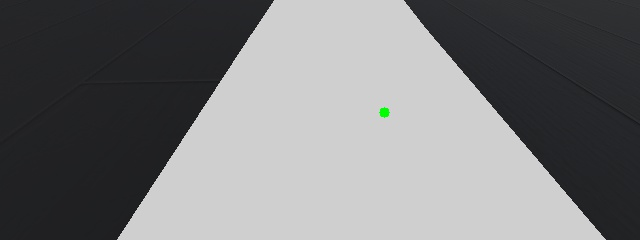
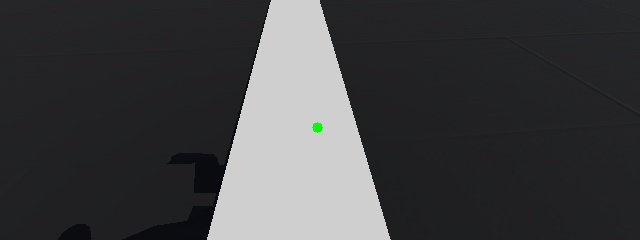
Random positions and rotation
Starts at random cell, has random cell to get the package and random end cell.
It now rotates to orient itself to the next point

diff --git a/controllers/e_puck_simple/e_puck_simple.py b/controllers/e_puck_simple/e_puck_simple.py
@@ -1,23 +1,34 @@
 import cv2
 import numpy as np
+import math
 from controller import Camera
 from controller import Supervisor
 
 from CellsGraph import CellsGraph
 from PathFindingAStar import PathFindingAStar
 
+#Declaring variables for global purposes
+
+robot = None
+
+cellsGraph = None
+pathFinding = None
+totalPath = []
+
+currentCell = None
 
 
-def run_robot(robot):
-
-    # Camera Image Variables
-    image_width = 640
-    image_height = 240
 
 
+
+max_speed = 6.28  # documentation vel
+currentSpeed = 0.25 * max_speed
+
+def run_robot():
+    # Robot State
+    robotCurrentState = 'ROTATING'
     timestep = int(robot.getBasicTimeStep())
-    base_speed = 0.25
-    max_speed = 6.28 # documentation vel
+
 
     # Initialize motors
     left_motor = robot.getDevice("left wheel motor")
@@ -37,89 +48,221 @@ def run_robot(robot):
     gps = robot.getDevice('gps')
     gps.enable(timestep)
 
+    #Initialize Gyroscope
+    #gyro = robot.getDevice('gyro')
+    #gyro.enable(timestep)
+
+    # Initialize IU
+    inertialUnit = robot.getDevice('inertial unit')
+    inertialUnit.enable(timestep)
+
     while robot.step(timestep) != -1:
 
         #Read Sensors
         gpsValues = gps.getValues()
         gpsValuesText = " {0:0.5f} , {1:0.5f}, {2:0.5f}".format(gpsValues[0],gpsValues[1],gpsValues[2])
-        print(gpsValuesText)
+       #print(gpsValuesText)
 
+        #roll,pitch,yaw = gyro.getRollPitchYaw()
+        #print('roll: ' + str(roll) + ' pitch: ' + str(pitch) + ' yaw: ' + str(yaw))
+
+        roll,pitch,yaw = inertialUnit.getRollPitchYaw()
+        forward_vector = [math.cos(yaw), 0, math.sin(yaw)]
+        #print('roll: ' + str(roll) + ' pitch: ' + str(pitch) + ' yaw: ' + str(yaw))
+        #print(forward_vector)
 
         #Process data
 
+        if robotCurrentState == 'ROTATING':
+            #ROTATE
+            robotCurrentState = RotationBehaviour(forward_vector, left_motor,right_motor)
+        else:
+            FollowLineMovement(camera,left_motor,right_motor)
+
+
+
         #Actions
 
-        frame = np.frombuffer(camera.getImage(), dtype=np.uint8).reshape((camera.getHeight(), camera.getWidth(), 4))
-        # save rgb
-        # cv2.imwrite('processed_frame.jpg', frame)
 
-        # Preprocessing
-        gray = cv2.cvtColor(frame, cv2.COLOR_RGB2GRAY)
-        # cv2.imwrite('processed_gray.jpg', gray)
 
-        _, binary = cv2.threshold(gray, 150, 255, cv2.THRESH_BINARY)
-        # cv2.imwrite('processed_binary.jpg', binary)
 
-        # Canny edge detection
-        edges = cv2.Canny(binary, 50, 150)
-        # Hough line transform
-        lines = cv2.HoughLinesP(edges, 1, np.pi / 180, threshold=50, minLineLength=50, maxLineGap=10)
+def FollowLineMovement(camera,left_motor,right_motor):
 
-        if lines is not None:
-            center_x_total = 0
-            center_y_total = 0
-            count = 0
+    # Camera Image Variables
+    image_width = 640
+    image_height = 240
 
-            # Iterate over all detected lines
-            for line in lines:
-                x1, y1, x2, y2 = line[0]
+    frame = np.frombuffer(camera.getImage(), dtype=np.uint8).reshape((camera.getHeight(), camera.getWidth(), 4))
+    # save rgb
+    # cv2.imwrite('processed_frame.jpg', frame)
 
-                # Calculate the center of the line segment
-                center_x = (x1 + x2) // 2
-                center_y = (y1 + y2) // 2
+    # Preprocessing
+    gray = cv2.cvtColor(frame, cv2.COLOR_RGB2GRAY)
+    # cv2.imwrite('processed_gray.jpg', gray)
 
-                center_x_total += center_x
-                center_y_total += center_y
-                count += 1
+    _, binary = cv2.threshold(gray, 150, 255, cv2.THRESH_BINARY)
+    # cv2.imwrite('processed_binary.jpg', binary)
 
-            if count > 0:
-                # Calculate the average center point
-                average_center_x = center_x_total // count
-                average_center_y = center_y_total // count
+    # Canny edge detection
+    edges = cv2.Canny(binary, 50, 150)
+    # Hough line transform
+    lines = cv2.HoughLinesP(edges, 1, np.pi / 180, threshold=50, minLineLength=50, maxLineGap=10)
 
-                # Draw a circle at the average center point (for visualization)
-            cv2.circle(frame, (average_center_x, average_center_y), 5, (0, 255, 0), -1)
+    if lines is not None:
+        center_x_total = 0
+        average_center_x = 0
+        center_y_total = 0
+        count = 0
 
-        cv2.imwrite('CENTER.jpg', frame)
+        # Iterate over all detected lines
+        for line in lines:
+            x1, y1, x2, y2 = line[0]
 
-        # CONTROL MOTORS
-        # Find Error
-        center_x = average_center_x  # Assuming you have obtained the average center x-coordinate
-        desired_position = image_width / 2  # Assuming the desired position is the center of the image width
-        print(f"Center X: {center_x}")
-        error = center_x - desired_position
-        # Set the proportional control gain
-        Ke = 0.5
-        Kp = 2
+            # Calculate the center of the line segment
+            center_x = (x1 + x2) // 2
+            center_y = (y1 + y2) // 2
 
-        # Calculate the individual wheel speeds
-        left_wheel_speed = Kp + ((Ke * error) / desired_position)
-        right_wheel_speed = Kp - ((Ke * error) / desired_position)
-        left_motor.setVelocity(left_wheel_speed)
-        right_motor.setVelocity(right_wheel_speed)
-        print(f"left wheel: {left_wheel_speed}")
-        print(f"right wheel: {right_wheel_speed}")
+            center_x_total += center_x
+            center_y_total += center_y
+            count += 1
 
-   
+        if count > 0:
+            # Calculate the average center point
+            average_center_x = center_x_total // count
+            average_center_y = center_y_total // count
+
+            # Draw a circle at the average center point (for visualization)
+        cv2.circle(frame, (average_center_x, average_center_y), 5, (0, 255, 0), -1)
+
+    cv2.imwrite('CENTER.jpg', frame)
+
+    # CONTROL MOTORS
+    # Find Error
+    center_x = average_center_x  # Assuming you have obtained the average center x-coordinate
+    desired_position = image_width / 2  # Assuming the desired position is the center of the image width
+    ##print(f"Center X: {center_x}")
+    error = center_x - desired_position
+    # Set the proportional control gain
+    Ke = 0.5
+    Kp = 2
+
+    # Calculate the individual wheel speeds
+    left_wheel_speed = Kp + ((Ke * error) / desired_position)
+    right_wheel_speed = Kp - ((Ke * error) / desired_position)
+    left_motor.setVelocity(left_wheel_speed)
+    right_motor.setVelocity(right_wheel_speed)
+    ##print(f"left wheel: {left_wheel_speed}")
+    ##print(f"right wheel: {right_wheel_speed}")
+
+def RotationBehaviour(forwardVector,left_motor,right_motor):
+
+    nextCell = totalPath[0]
+    desiredOrientation = [nextCell.position[0]-currentCell.position[0], nextCell.position[1]-currentCell.position[1],
+                          nextCell.position[2]-currentCell.position[2]]
+
+    angle = angle_between(forwardVector,desiredOrientation)
+
+    angleSafeRange = 0.05
+
+    changeState = False
+
+
+    if angle >= angleSafeRange:
+        TurnRight(left_motor,right_motor)
+    elif angle <= -angleSafeRange:
+        TurnLeft(left_motor,right_motor)
+    else:
+         changeState = True
+
+    print('TO: ' + nextCell.name)
+    print('ANGLE: ' + str(angle))
+
+    if changeState == True:
+        return 'MOVING'
+    else:
+        return 'ROTATING'
+
+
+## https://stackoverflow.com/questions/2827393/angles-between-two-n-dimensional-vectors-in-python
+def unit_vector(vector):
+    """ Returns the unit vector of the vector.  """
+    return vector / np.linalg.norm(vector)
+
+def angle_between(v1, v2):
+    """ Returns the angle in radians between vectors 'v1' and 'v2'::
+
+            >>> angle_between((1, 0, 0), (0, 1, 0))
+            1.5707963267948966
+            >>> angle_between((1, 0, 0), (1, 0, 0))
+            0.0
+            >>> angle_between((1, 0, 0), (-1, 0, 0))
+            3.141592653589793
+    """
+    v1_u = unit_vector(v1)
+    v2_u = unit_vector(v2)
+    #return np.arccos(np.clip(np.dot(v1_u, v2_u), -1.0, 1.0))
+    return np.arctan2(np.cross(v1_u, v2_u), np.dot(v1_u, v2_u))[1]
+##---------------------------------------------------------------------------------------
+
+def TurnRight(left_motor,right_motor):
+    right_motor.setVelocity(-currentSpeed/2)
+    left_motor.setVelocity(currentSpeed/2)
+
+def TurnLeft( left_motor,right_motor):
+    right_motor.setVelocity(currentSpeed/2)
+    left_motor.setVelocity(-currentSpeed/2)
+
+def DefineInitialCells():
+
+    randomStartCell = cellsGraph.GetRandomCell()
+
+    randomPackageCell = None
+    while True:
+        randomPackageCell = cellsGraph.GetRandomCell()
+        if (randomPackageCell != randomStartCell): break
+
+    randomEndCell = None
+    while True:
+        randomEndCell = cellsGraph.GetRandomCell()
+        if (randomEndCell != randomPackageCell): break
+
+    return randomStartCell,randomPackageCell,randomEndCell
+
 if __name__=='__main__':
     # Initialize Robot
     robot = Supervisor()
 
+    #Initialize World Graph
     cellsGraph = CellsGraph(supervisor=robot)
+
+    #Get random cells for path
+    randomStartCell, randomPackageCell, randomEndCell = DefineInitialCells()
+    print('Random cells: Start -> ' + str(randomStartCell.name) + ' Package -> ' +str(randomPackageCell.name) +
+          ' End -> ' + str(randomEndCell.name) )
+
+    #Get Paths Start-Package and Package-End
     pathFinding = PathFindingAStar(cellsGraph)
 
+    ToPackagePath = pathFinding.FindPath(randomStartCell,randomPackageCell)
+    pathFinding.DEBUGPrintPath(randomStartCell.name, randomPackageCell.name, ToPackagePath)
 
-    run_robot(robot)
+    ToEndPath= pathFinding.FindPath(randomPackageCell,randomEndCell)
+    pathFinding.DEBUGPrintPath(randomPackageCell.name, randomEndCell.name, ToEndPath)
+
+    totalPath = ToPackagePath + ToEndPath
+
+    pathFinding.DEBUGPrintPath(randomStartCell.name, randomEndCell.name, totalPath)
+
+
+    currentCell = randomStartCell
+
+    #Start at random start cell position
+    robotNode = robot.getFromDef('e-puck')
+    translationField = robotNode.getField('translation')
+    translationField.setSFVec3f(randomStartCell.position)
+
+
+    run_robot()
 
 
 

diff --git a/PathFindingAStar.py b/PathFindingAStar.py
@@ -10,30 +10,12 @@ class PathFindingAStar:
 
 
 
-        #TESTE
-
-        STARTTESTNAME = 'C1'
-        ENDTESTNAME= 'C16'
-        STARTTESTPOS = cellsGraph.worldCellsDict[STARTTESTNAME].position
-        ENDTESTPOS = cellsGraph.worldCellsDict[ENDTESTNAME].position
-        TESTPATH = self.FindPath(STARTTESTPOS,ENDTESTPOS)
-        print('PATH FROM ' + STARTTESTNAME + '--> ' + ENDTESTNAME + '\n')
-
-        temp = ''
-        for c in TESTPATH:
-            temp2= ' --> ' + c.name
-            temp+= temp2
-        print(temp)
-        print()
+    def FindPath(self, startingCell, endCell):
 
 
 
-    def FindPath(self, startingPos, endPos):
-
-
-
-        startingCell = self.cellsGraph.GetCellInPosition(startingPos)
-        endCell = self.cellsGraph.GetCellInPosition(endPos)
+        #startingCell = self.cellsGraph.GetCellInPosition(startingPos)
+        #endCell = self.cellsGraph.GetCellInPosition(endPos)
 
         startingCell.gCost = 0
         startingCell.CalculateHCost(endCell.position)
@@ -88,3 +70,13 @@ class PathFindingAStar:
         end = np.array(endCell.position)
 
         return np.linalg.norm(end - origin)
+
+    def DEBUGPrintPath(self,STARTTESTNAME,ENDTESTNAME,TESTPATH ):
+        print('PATH FROM ' + STARTTESTNAME + '--> ' + ENDTESTNAME + '\n')
+
+        temp = ''
+        for c in TESTPATH:
+            temp2 = ' --> ' + c.name
+            temp += temp2
+        print(temp)
+        print()

diff --git a/CellsGraph.py b/CellsGraph.py
@@ -1,3 +1,4 @@
+import random
 from Cell import Cell
 from controller import Supervisor
 
@@ -36,6 +37,8 @@ class CellsGraph:
 
         }
 
+
+        # Name -> Cell Instance
         self.worldCellsDict = {}
 
         self.createCells(supervisor)
@@ -96,3 +99,7 @@ class CellsGraph:
                 break
 
         return desiredCell
+
+    def GetRandomCell(self):
+        _, randomCell = random.choice(list(self.worldCellsDict.items()))
+        return randomCell
